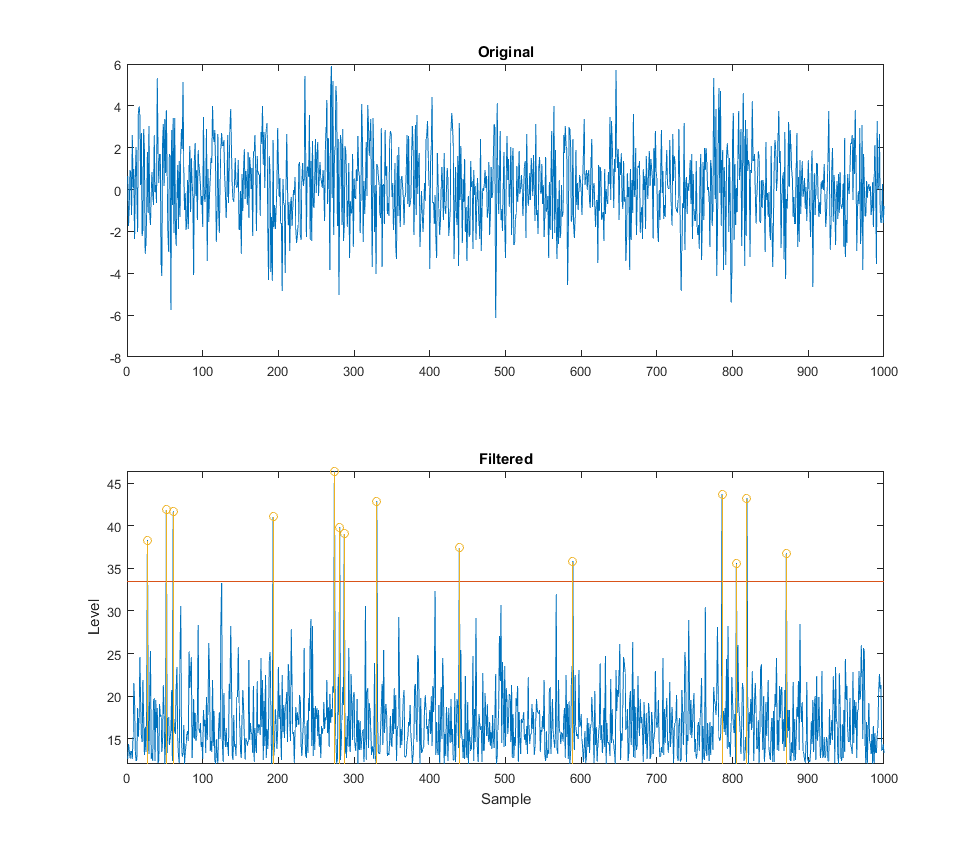
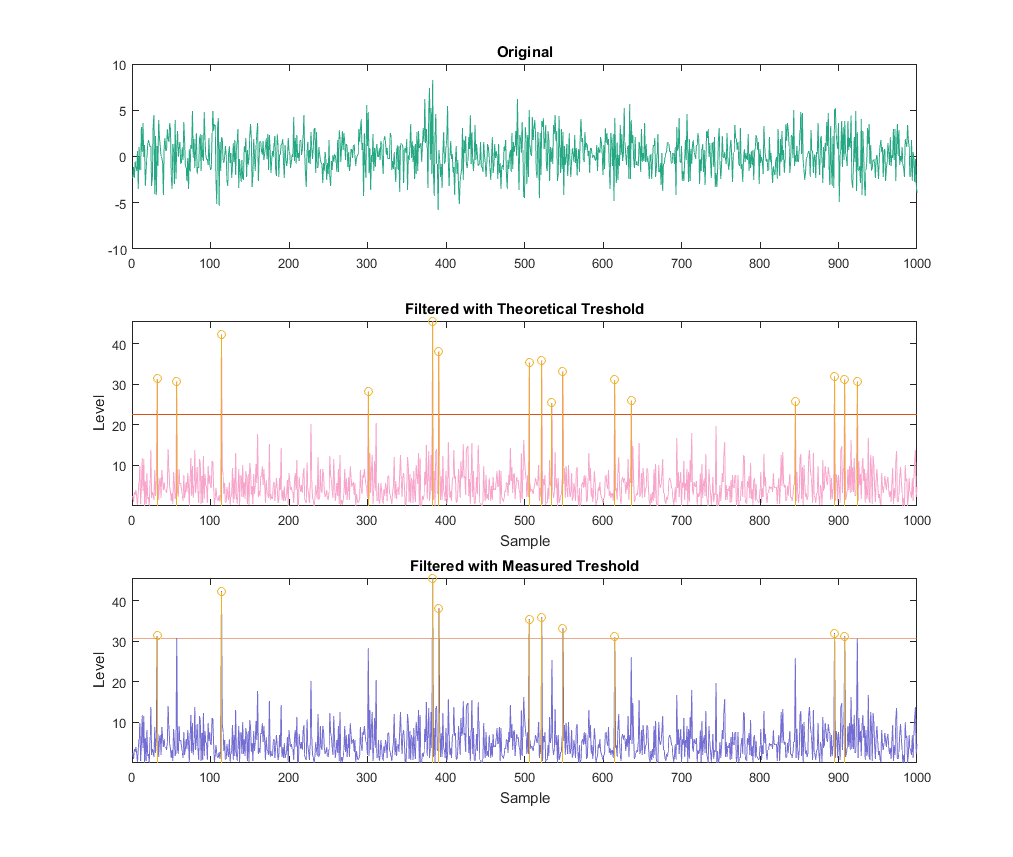
fixed for submission

diff --git a/task4.m b/task4.m
@@ -3,35 +3,47 @@ clear all; close all
 % Get results from task 2
 run('task2.m');
 run('group0_ans.m');
-load('SGroup5.mat')
-
+load('SGroup0.mat')
 
 r = StudentData.rcvd;
 w = StudentData.refnoise;
-mu_r = mean(r)
-std_r = std(r)
 
-
-thresh = 2* std_r^2 * v0(4) + mu_r +6
-
-subplot(2,1,1); plot(r)
+% Auto-Correlation
+subplot(3,1,1); plot(r, 'color',rand(1,3))
 title('Original')
-corr = 12 + abs(filter(flipud(barker(13)), 1, r));
-subplot(2,1,2); plot(corr); hold on;    
+corr = abs(filter(flipud(barker(13)), 1, r));
 
-winners = find((corr > thresh));
-length(winners)
+% Theoretical threshold (based off noise and hyp test)
+thresh_th = v0(4)* sqrt(13*var(w));
+hit_th = find((corr > thresh_th));
+length(hit_th)
 
 % plot thresh
-plot([0, length(corr)], [thresh, thresh]); hold on;  
-% plot detected
-stem(winners, corr(winners))
-% hold on;    % plot answers to expose missed or false positives
-% stem(epochs + 12 , corr(epochs + 12), '*');
-
+subplot(3,1,2); plot(corr, 'color',rand(1,3)); hold on;   
+plot([0, length(corr)], [thresh_th, thresh_th]); hold on;  
+stem(hit_th, corr(hit_th))
 
 % Plot properties
-title('Filtered')
+title('Filtered with Theoretical Treshold')
+xlim([0,length(corr)])
+ylim([min(corr), max(corr)])
+xlabel('Sample')
+ylabel('Level')
+
+
+% Cheat threshold (need full signal, not realtime)
+corr_sort = sort(abs(corr));    % set thresh at 10th max
+thresh_m = corr_sort(end - 10)
+hit_m = find((corr > thresh_m));
+length(hit_m)
+
+% plot thresh
+subplot(3,1,3); plot(corr, 'color',rand(1,3)); hold on;   
+plot([0, length(corr)], [thresh_m, thresh_m]); hold on;  
+stem(hit_m, corr(hit_m))
+
+% Plot properties
+title('Filtered with Measured Treshold')
 xlim([0,length(corr)])
 ylim([min(corr), max(corr)])
 xlabel('Sample')

diff --git a/task35.m b/task35.m
@@ -1,7 +1,7 @@
 clear all; close all; clc
 
 codes = [2 3 4 5 7 11 13];
-barker13 = barker(11);
+barker13 = barker(13);
 code_stats = zeros(length(codes), 3);
 for i = 1:length(codes)
     % Combines the codes  
@@ -16,6 +16,6 @@ for i = 1:length(codes)
     
     % Record Statistics
     code_stats(i, :) = [peak, peak_side, mean_side];
-    code_db = 20*log10(code_stats);
+    code_db = 10*log10(code_stats);
 
 end

diff --git a/task2.m b/task2.m
@@ -9,6 +9,7 @@ table = [Pfa' v0']; % for report
 % v0 vs Pfa plot
 figure
 plot(v0,Pfa, 'r')
+
 % Plot Properties
 title('P_f_a vs v_0')
 xlabel('Threshold')

diff --git a/group0_ans.m b/group0_ans.m
@@ -17,4 +17,4 @@ epochs =   [20
             833
             883
             896
-            912]
+            912];
